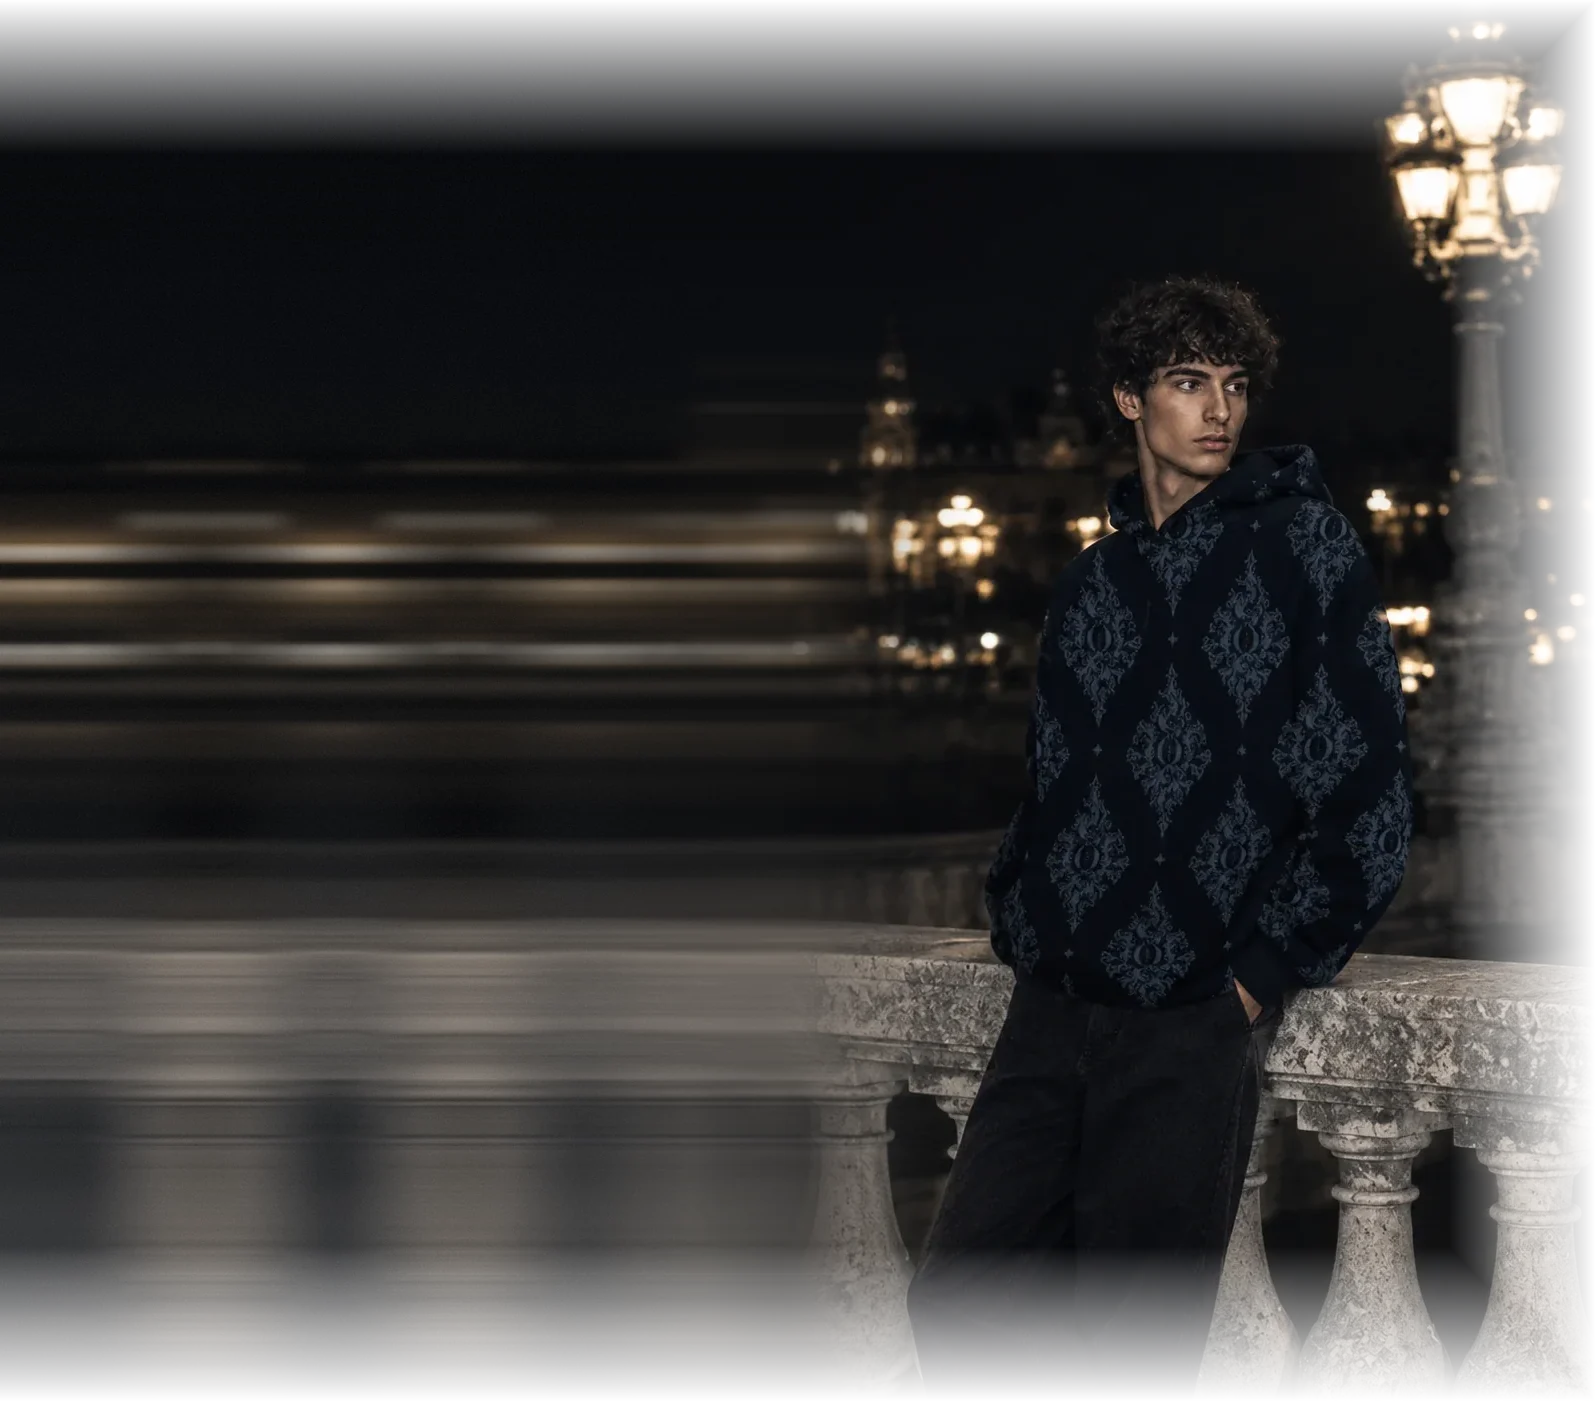
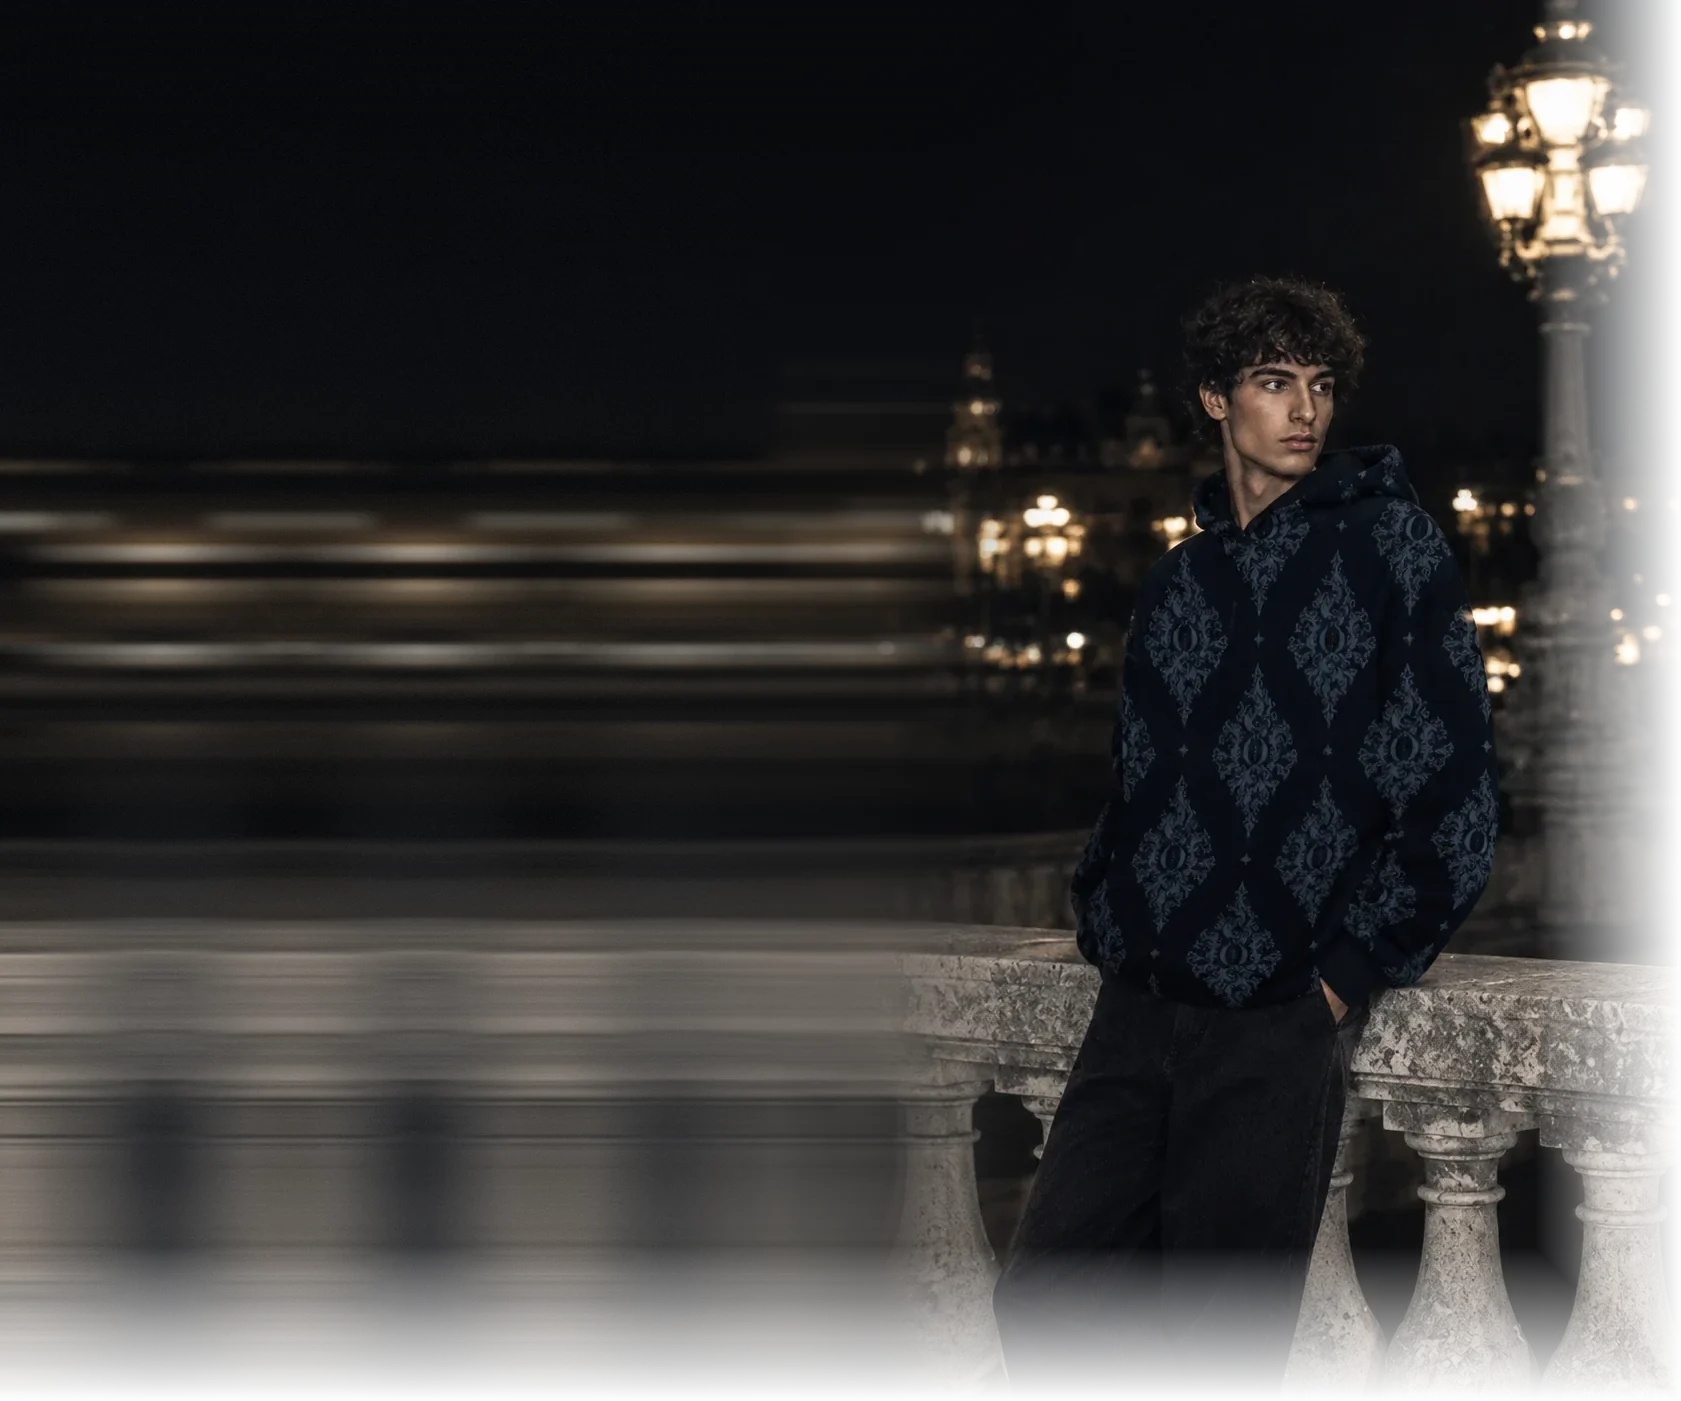
Drop 001: Paris 2 flush under Paris 1
David, 2 Nov: "Raise this photo up more closer to the top one". The gap was Paris 1's own 8svh bottom
margin; it goes, and Paris 2 loses its top fade so the two photographs meet edge to edge. Paris 2's
extension is widened to the collage's full width (1681 x 1401), so it no longer hangs 20 px off the
screen's left and is not cropped; the lamp at its top stays whole.

Claude-Session: https://claude.ai/code/session_01Xop3ozbggUZYCZH84byUWU

diff --git a/index.html b/index.html
@@ -427,8 +427,9 @@ html[data-type="mix"] .label, html[data-type="mix"] .spec dt, html[data-type="mi
   left:var(--px); transform:translateX(calc(-1 * var(--px))); pointer-events:none}
 /* Paris 2 runs to the page's left edge, its left side pan-blurred like the night walk (David: "Motion blur this one
    like the first we ever did") */
-.street .cl figure.bleedl{margin-left:calc(-1 * max(20px, env(safe-area-inset-left,0px)))}
-@media(min-width:900px){ .street .cl figure.bleedl{margin-left:0} }
+/* flush under Paris 1: no fade at its top (David: "Raise this photo up more closer to the top one") */
+.street .cl figure.bleedl img{object-position:62% 0}
+.street .reg[data-r="paris"] .hlstack .hl{margin-bottom:0}
 .street .lw{display:grid; gap:6px; margin:6px calc(-1 * max(20px, env(safe-area-inset-left,0px)))}
 .street .lw figure{margin:0; width:auto}
 .street .lw img{width:100%; height:auto; display:block}
@@ -636,7 +637,7 @@ html, body{overflow-x:clip}
     <div class="hlstack"><figure class="hl full"><img src="drop/assets/street-03.webp" width="1254" height="1254" alt="From below, blonde hair blowing across the hood, a stone facade behind" loading="lazy"></figure><figure class="hl full cut" aria-hidden="true"><img src="drop/assets/cut-03.webp" width="1254" height="1254" alt="" loading="lazy" decoding="async"></figure></div>
     </div><div class="rest">
     <div class="cl">
-      <figure class="bleedl" style="grid-area:1 / 1 / 11 / 13; z-index:1"><img style="object-position:62% 50%" src="drop/assets/street-05-f.webp" width="1595" height="1401" decoding="async" alt="Leaning on a stone balustrade at night, a lit lamp and the river behind" loading="lazy"></figure>
+      <figure class="bleedl" style="grid-area:1 / 1 / 11 / 13; z-index:1"><img style="object-position:62% 50%" src="drop/assets/street-05-f.webp" width="1681" height="1401" decoding="async" alt="Leaning on a stone balustrade at night, a lit lamp and the river behind" loading="lazy"></figure>
       <figure style="grid-area:8 / 1 / 16 / 7; z-index:2"><img style="object-position:42% 35%" src="drop/assets/street-08-f.webp" width="1054" height="1405" decoding="async" alt="Looking back over her shoulder at dusk, a lamp and a domed building behind" loading="lazy"></figure>
       <figure class="pop" style="grid-area:14 / 8 / 19 / 13; z-index:1; --pi:5% 7% 27% 7%; --px:45%"><img style="object-position:45% 50%" src="drop/assets/street-04-f.webp" width="1254" height="1254" decoding="async" alt="Hood up beside a stone column at night, under a lit street lamp" loading="lazy"><img class="popfig" src="drop/assets/pop-04.webp" width="1254" height="1254" alt="" aria-hidden="true" loading="lazy" decoding="async"></figure>
       <figure class="pop" style="grid-area:18 / 2 / 27 / 9; z-index:2; --pi:11% 13% 9% 13%; --px:50%"><img style="object-position:50% 30%" src="drop/assets/street-06-f.webp" width="1094" height="1406" decoding="async" alt="The hood up, close: the emblem across it, the face in its shadow" loading="lazy"><img class="popfig" src="drop/assets/pop-06.webp" width="1094" height="1406" alt="" aria-hidden="true" loading="lazy" decoding="async"></figure>
